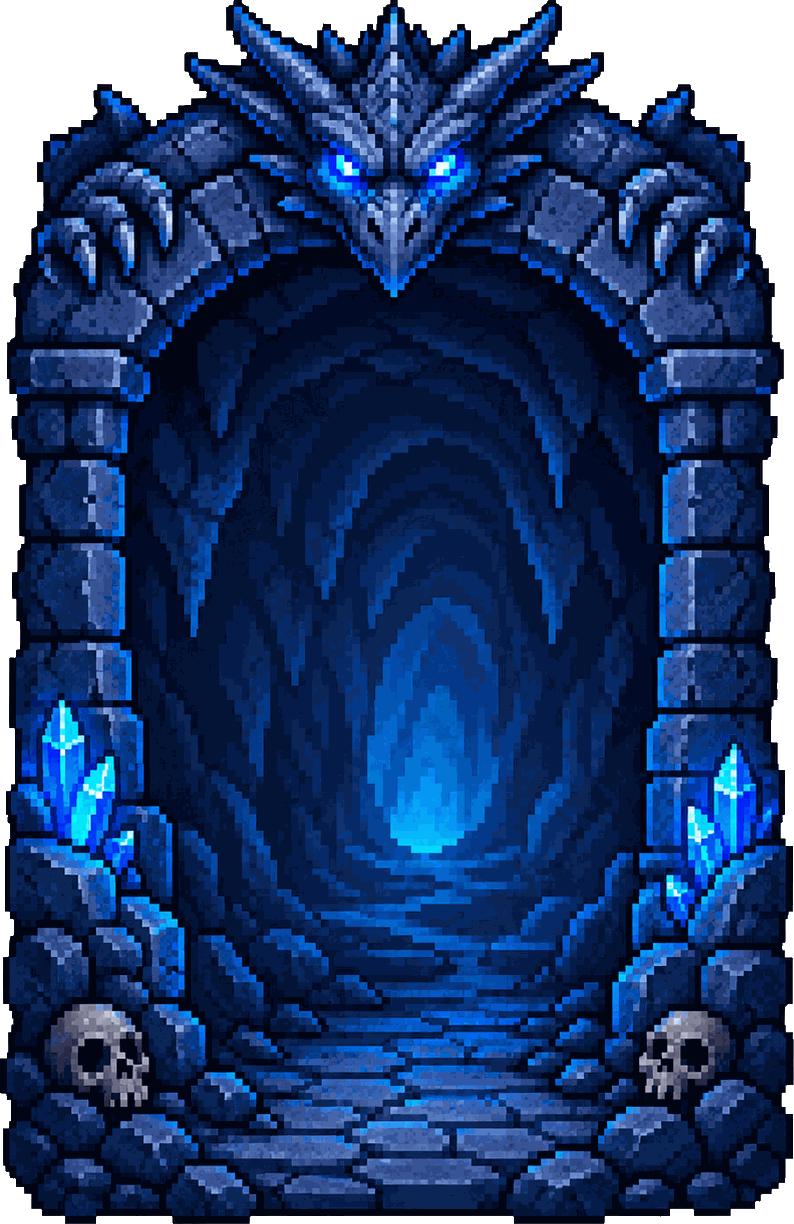
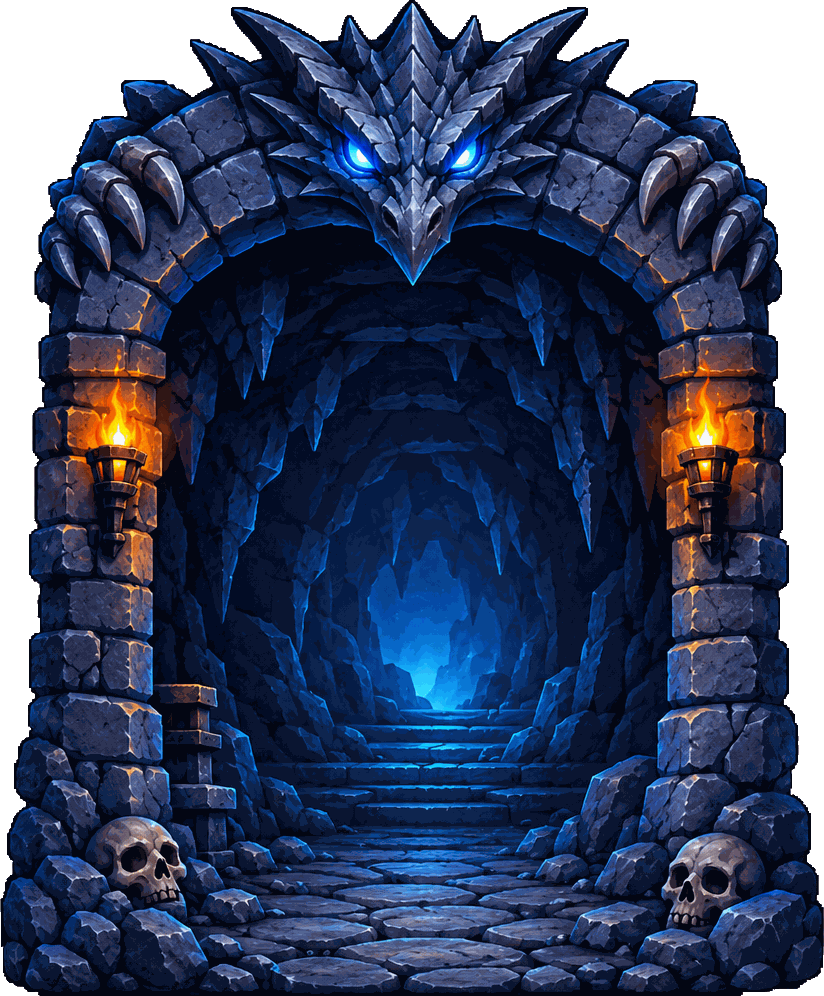
3d

diff --git a/www/index.html b/www/index.html
@@ -480,22 +480,34 @@ body.cpu-turn .rollcard{cursor:default}
 #mainmenu{background:#000;overflow-x:hidden}
 #mainmenu:not([hidden]){display:flex;flex-direction:column;align-items:center}
 #mainmenu .mmbg{display:none}
-#mainmenu .mmin{--aw:min(540px,calc(100vw*1.1),calc((100vh - 6px)*.6487));--ah:calc(var(--aw)*1.5416);
-  flex:none;width:var(--aw);max-width:none;min-height:var(--ah);margin:auto 0;
-  background:url(img/menu-arch.png) center top/100% auto no-repeat;image-rendering:pixelated;
-  padding:calc(var(--ah)*.232) calc(var(--aw)*.14) calc(var(--ah)*.03)}
-@supports (height:100dvh){#mainmenu .mmin{--aw:min(540px,calc(100vw*1.1),calc((100dvh - 6px)*.6487))}}
+/* арка 824×996 (h = w·1.2087): голова дракона до 28% высоты, проём между столбами (с факелами) — 19…81% ширины */
+#mainmenu .mmin{--tt:0px;--aw:min(640px,calc(100vw*1.1),calc((100vh - 6px)*.8273));--ah:calc(var(--aw)*1.2087);
+  position:relative;flex:none;width:var(--aw);max-width:none;min-height:calc(var(--ah) + var(--tt));margin:auto 0;
+  background:url(img/menu-arch.png) center var(--tt)/100% auto no-repeat;
+  padding:calc(var(--tt) + var(--ah)*.285) calc(var(--aw)*.195) calc(var(--ah)*.035)}
+@supports (height:100dvh){#mainmenu .mmin{--aw:min(640px,calc(100vw*1.1),calc((100dvh - 6px)*.8273))}}
+/* телефон вертикально: арка шире экрана (столбы с факелами по краям), название — над головой дракона */
+@media (orientation:portrait) and (max-width:600px){
+  #mainmenu .mmin{--tt:104px;--aw:min(calc(100vw*1.24),calc((100vh - var(--tt) - 8px)*.8273));padding-left:calc(var(--aw)*.185);padding-right:calc(var(--aw)*.185)}
+  @supports (height:100dvh){#mainmenu .mmin{--aw:min(calc(100vw*1.24),calc((100dvh - var(--tt) - 8px)*.8273))}}
+  #mainmenu .mmtitle{position:absolute;left:0;right:0;top:18px;font-size:clamp(30px,9vw,38px)}
+  #mainmenu .mmslogan{position:absolute;left:0;right:0;top:64px;margin:0}
+  #mainmenu .mmmid{padding-top:0}
+  #mainmenu .mmbtns button{gap:8px;padding:0 4px}
+  #mainmenu .mmbtns button i{width:24px;font-size:20px}
+  #mainmenu .mmbtns small{font-size:11.8px;letter-spacing:0}
+}
 #mainmenu .mmlogo,#mainmenu .mmkick{display:none}
 #mainmenu .mmtitle{margin:0;font-size:clamp(26px,calc(var(--aw)*.083),44px);line-height:1.02;color:#eaf3ff;
   text-shadow:0 0 2px #000,0 2px 0 #000,0 0 14px rgba(70,150,255,.85),0 0 30px rgba(40,110,255,.55)}
 #mainmenu .mmslogan{margin-top:4px;font-size:clamp(14px,calc(var(--aw)*.04),20px);color:#8fc3ff;text-shadow:0 1px 0 #000,0 0 8px #000}
-#mainmenu .mmmid{margin:auto 0 0;padding:calc(var(--ah)*.022) 0 0}
+#mainmenu .mmmid{margin:0;padding:calc(var(--ah)*.03) 0 0}
 #mainmenu .mmfoot{margin-top:calc(var(--ah)*.018);font-size:11.5px;background:rgba(0,2,10,.55);border-radius:8px;padding:2px 10px;color:#9db4d8;text-shadow:0 1px 0 #000,0 0 6px #000,0 0 3px #000}
 #mainmenu .mmpriv{color:#9db4d8;text-shadow:0 1px 0 #000,0 0 6px #000}
 /* каменная планка: 9-slice, углы не тянутся; разная длина текста — за счёт средней части */
 #mainmenu .mmbtns button,#mainmenu .mmsmall button,#mainmenu .mmvk,#mainmenu .mmquit{
-  position:relative;border-style:solid;border-width:13px 17px;border-color:transparent;border-radius:0;
-  border-image:url(img/btn-stone.png) 40 46 fill / 13px 17px / 0 stretch;image-rendering:pixelated;
+  position:relative;border-style:solid;border-width:10px 16px 12px;border-color:transparent;border-radius:0;
+  border-image:url(img/btn-stone.png) 26 42 30 fill / 10px 16px 12px / 0 stretch;
   background:none;box-shadow:none;color:#e8f2ff;font-weight:800;
   text-shadow:-1px -1px 0 #04081a,1px -1px 0 #04081a,-1px 1px 0 #04081a,1px 1px 0 #04081a,0 2px 3px #000;
   filter:drop-shadow(0 3px 4px rgba(0,0,0,.8));transition:filter .15s,transform .08s}
@@ -531,8 +543,8 @@ body.cpu-turn .rollcard{cursor:default}
 #mainmenu .mmquit{margin-top:clamp(6px,calc(var(--ah)*.012),10px);min-height:38px;padding:0 22px;font-size:13px;color:#cfe2ff}
 /* телефон боком: арка слева как картина, кнопки — колонкой справа */
 @media (orientation:landscape) and (max-height:560px){
-  #mainmenu .mmin{--ah:calc(100vh - 16px);--aw:calc(var(--ah)*.6487);width:calc(var(--aw) + 22px + min(400px,96vw - var(--aw) - 30px));min-height:var(--ah);margin:auto 0;
-    background-position:left center;background-size:auto var(--ah);
+  #mainmenu .mmin{--tt:0px;--ah:calc(100vh - 16px);--aw:calc(var(--ah)*.8273);width:calc(var(--aw) + 22px + min(400px,96vw - var(--aw) - 30px));min-height:var(--ah);margin:auto 0;
+    background-position:left top;background-size:auto var(--ah);
     padding:10px 6px 10px calc(var(--aw) + 22px)}
   #mainmenu .mmmid{margin:6px 0 0;padding:0}
   #mainmenu .mmtitle{font-size:30px}
